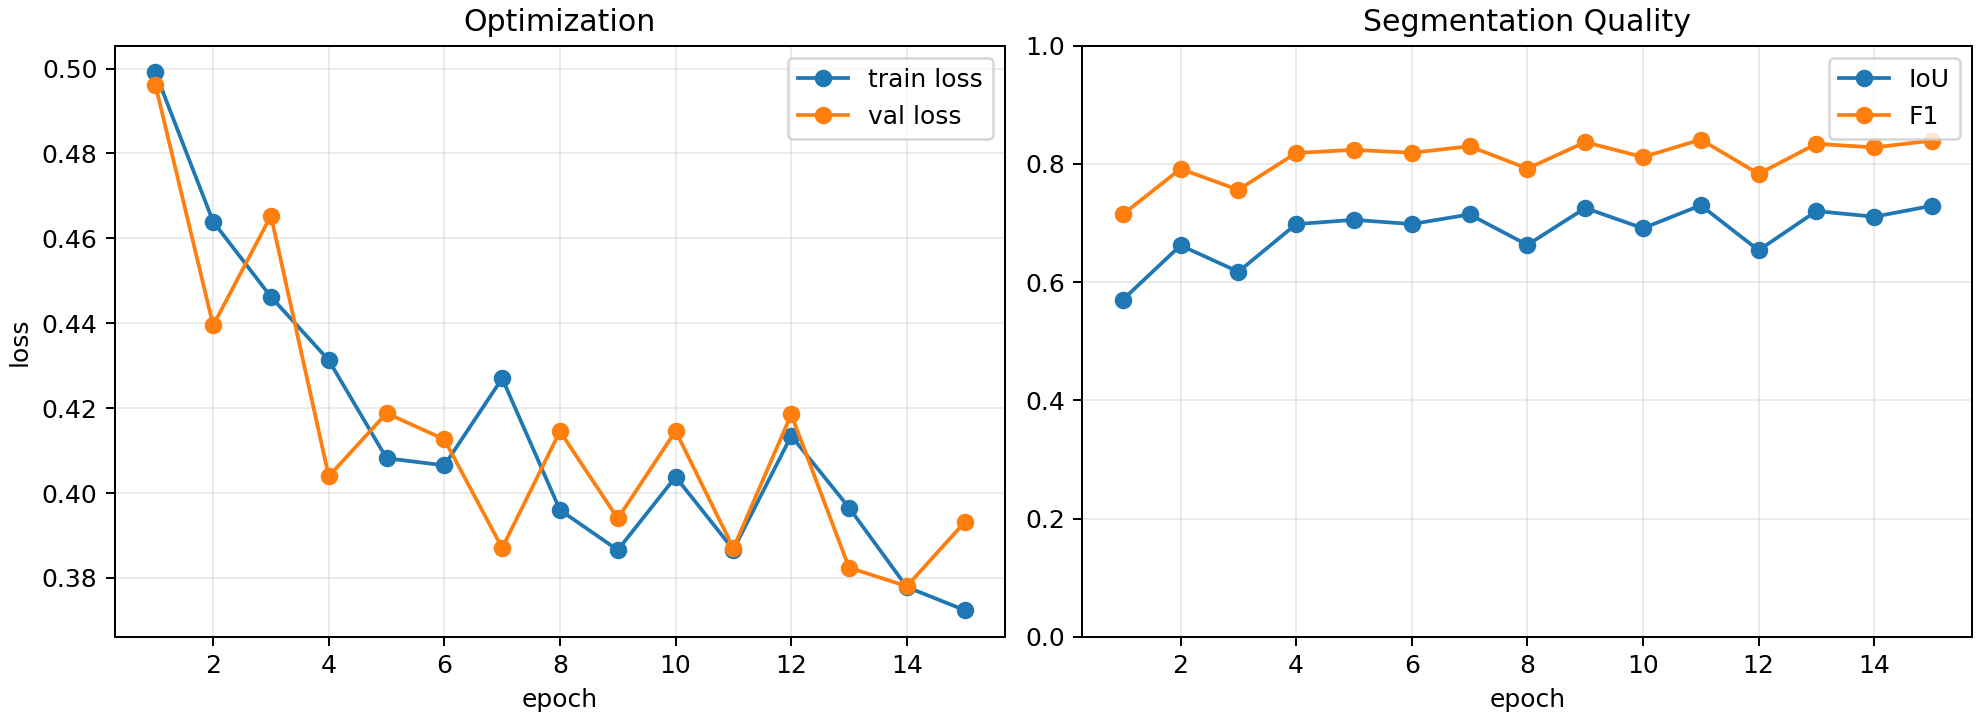
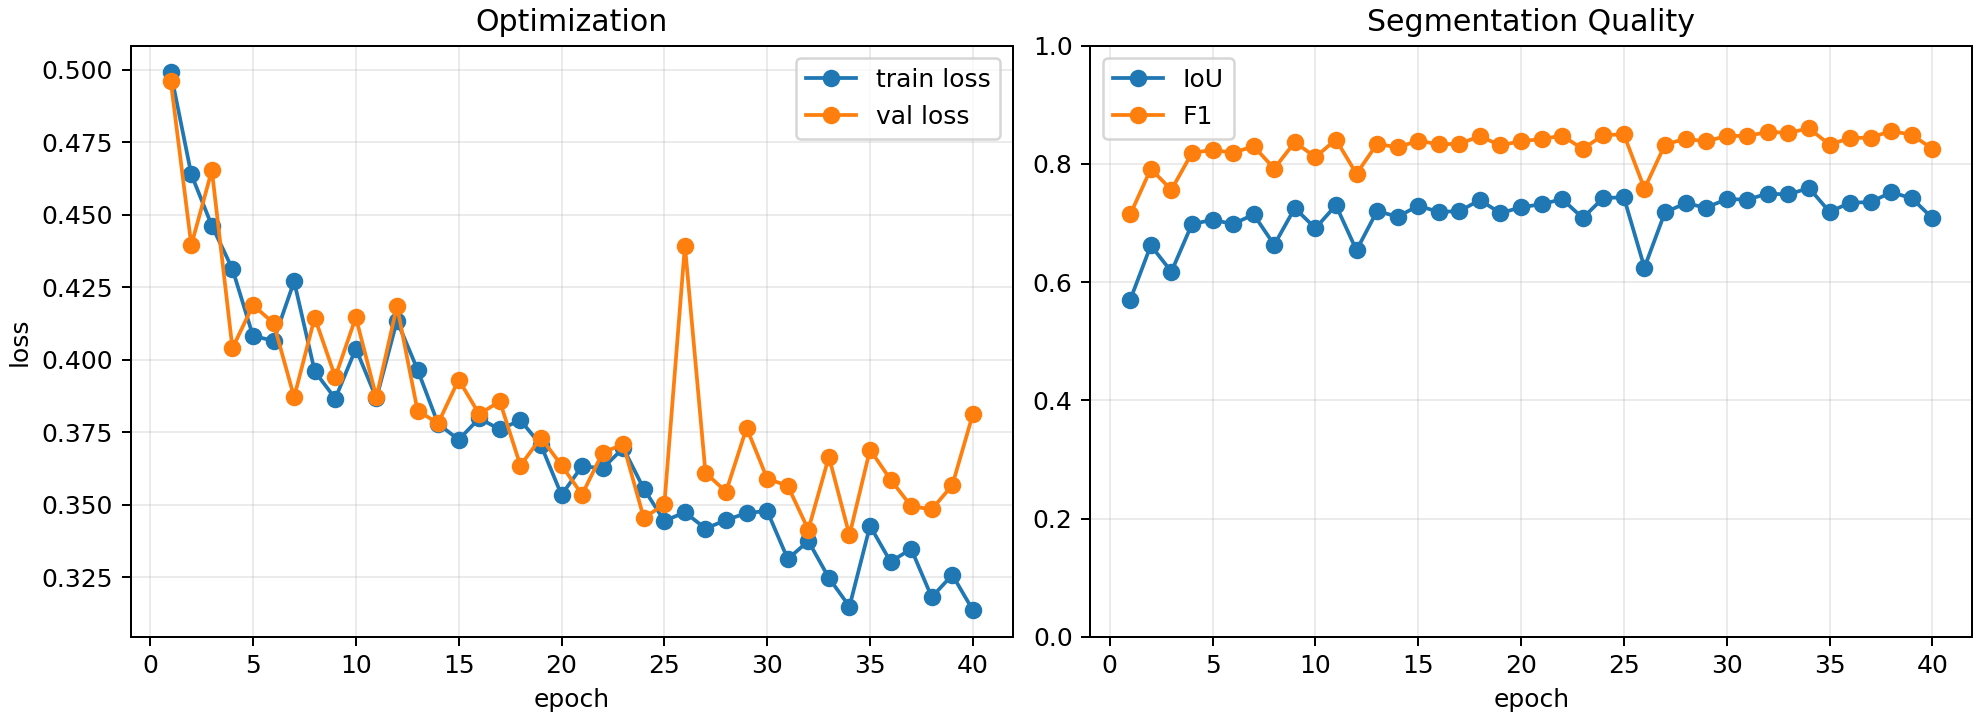
Improve VEPL training results for README

diff --git a/src/veg_multigpu/train.py b/src/veg_multigpu/train.py
@@ -220,6 +220,7 @@ def train() -> None:
     scaler = torch.amp.GradScaler("cuda", enabled=args.amp and device.type == "cuda")
 
     history: list[dict[str, float | int]] = []
+    best_val_iou = -1.0
     global_start = time.perf_counter()
 
     for epoch in range(1, args.epochs + 1):
@@ -273,6 +274,10 @@ def train() -> None:
         history.append(row)
         if is_main:
             print(json.dumps(row, indent=2))
+            if row["val_iou"] > best_val_iou:
+                best_val_iou = float(row["val_iou"])
+                model_to_save = model.module if isinstance(model, DistributedDataParallel) else model
+                torch.save(model_to_save.state_dict(), args.out_dir / "best_model.pt")
 
     if is_main:
         total_time = time.perf_counter() - global_start
@@ -280,6 +285,7 @@ def train() -> None:
             "args": json_ready_args(args),
             "device": str(device),
             "world_size": world_size,
+            "best_val_iou": best_val_iou,
             "total_train_seconds": total_time,
             "history": history,
         }

diff --git a/docs/verification.md b/docs/verification.md
@@ -65,7 +65,7 @@ PYTHONPATH=src /home/useradmin/miniconda3/envs/localai/bin/python scripts/compar
 | localai_single_gpu | 1 | 0.8382 | 0.9120 | 758.4 |
 | localai_ddp_cpu_smoke | 2 | 0.0457 | 0.0868 | 117.5 |
 | vepl_localai_smoke | 1 | 0.6468 | 0.7849 | 507.8 |
-| vepl_localai_full | 1 | 0.7290 | 0.8392 | 249.1 |
+| vepl_localai_full | 1 | 0.7083 | 0.8253 | 178.4 |
 
 The single-GPU run is the main local quality run. The DDP CPU run is a sanity test for process groups, distributed samplers, rank-aware metric reduction, artifact writing, and run comparison. True multi-GPU CUDA speedup must be verified on a cloud runtime with at least two GPUs.
 
@@ -125,19 +125,27 @@ dataset: VEPL compact non-augmented tiles
 samples: 426 train / 106 validation
 image_size: 192
 base_channels: 32
-epochs: 15
+epochs: 40
 device: cuda:0
 ```
 
-Verified result:
+Verified best-checkpoint result:
 
 ```text
-best_val_iou: 0.7299 at epoch 11
-final_val_iou: 0.7290
-final_val_f1: 0.8392
-final_val_accuracy: 0.8270
-images_per_sec: 249.1
-total_train_seconds: 30.48
+best_val_iou: 0.7592 at epoch 34
+best_val_f1: 0.8599
+best_val_accuracy: 0.8559
+images_per_sec_at_best: 175.7
+total_train_seconds: 90.82
+```
+
+Final epoch result:
+
+```text
+final_val_iou: 0.7083
+final_val_f1: 0.8253
+final_val_accuracy: 0.8366
+images_per_sec: 178.4
 ```
 
 Commit-ready visual outputs:

diff --git a/README.md b/README.md
@@ -6,11 +6,11 @@ Distributed computer-vision training pipeline for vegetation-risk segmentation a
 
 ## Results Snapshot
 
-| dataset | images | resolution | epochs | device | best IoU | final IoU | final F1 | throughput |
+| dataset | images | resolution | epochs | device | best epoch | best IoU | best F1 | throughput |
 |---|---:|---:|---:|---|---:|---:|---:|---:|
-| VEPL UAV tiles | 532 | 192px | 15 | RTX 5070 Laptop GPU | 0.7299 | 0.7290 | 0.8392 | 249.1 img/s |
+| VEPL UAV tiles | 532 | 192px | 40 | RTX 5070 Laptop GPU | 34 | 0.7592 | 0.8599 | 175.7 img/s |
 
-The representative run trains on the compact VEPL UAV tile archive with 426 training samples and 106 validation samples. The model learns a binary foreground mask over vegetation plus powerline/corridor pixels decoded from VEPL's semantic colors.
+The representative run trains on the compact VEPL UAV tile archive with 426 training samples and 106 validation samples. The model learns a binary foreground mask over vegetation plus powerline/corridor pixels decoded from VEPL's semantic colors, then saves the best checkpoint by validation IoU.
 
 ## Core Idea
 
@@ -47,7 +47,7 @@ bash scripts/download_vepl_sample.sh
 bash scripts/run_vepl_localai_full.sh
 PYTHONPATH=src python scripts/plot_training_curves.py
 PYTHONPATH=src python scripts/visualize_vepl_predictions.py \
-  --checkpoint artifacts/runs/vepl_localai_full/model.pt \
+  --checkpoint artifacts/runs/vepl_localai_full/best_model.pt \
   --output docs/assets/vepl_predictions_full.png \
   --image-size 192 \
   --base-channels 32 \
@@ -111,10 +111,10 @@ This uses the same U-Net, AMP, metrics, and artifact layout as the synthetic exp
 Verified representative VEPL result on `localai`:
 
 ```text
-best_val_iou: 0.7299
-final_val_iou: 0.7290
-final_val_f1: 0.8392
-images_per_sec: 249.1
+best_epoch: 34
+best_val_iou: 0.7592
+best_val_f1: 0.8599
+images_per_sec_at_best: 175.7
 ```
 
 Visual outputs: